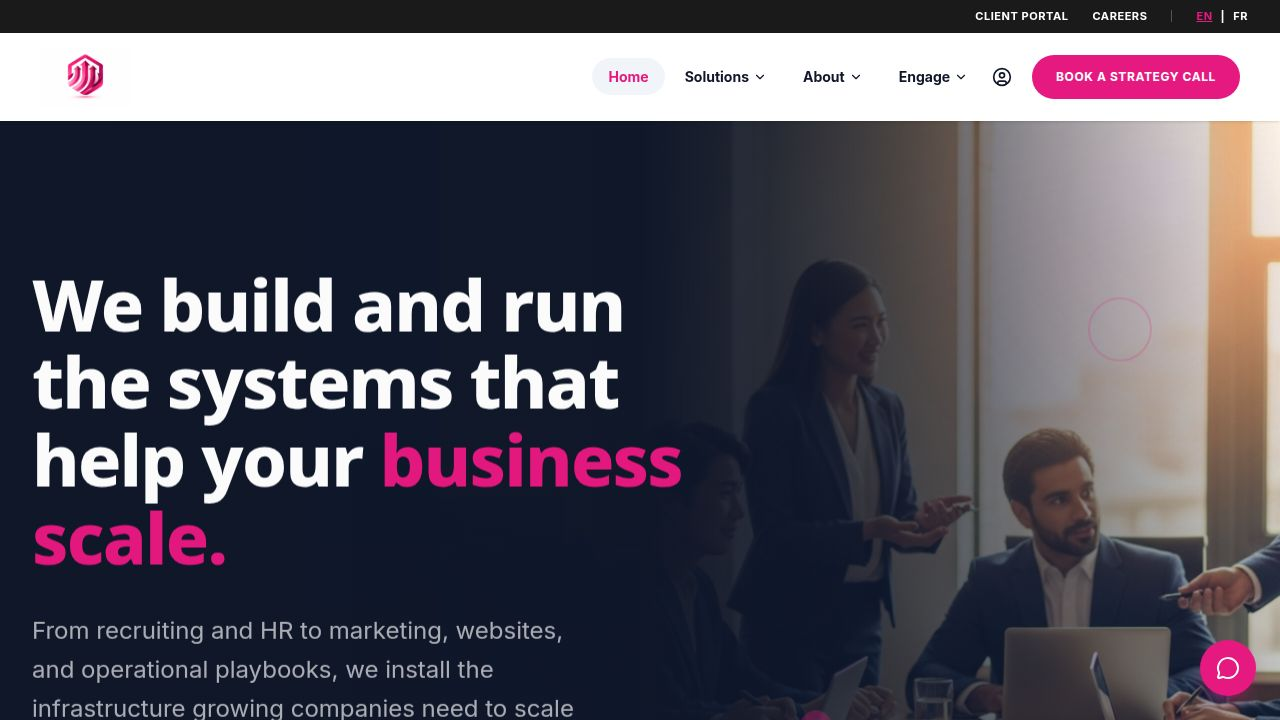
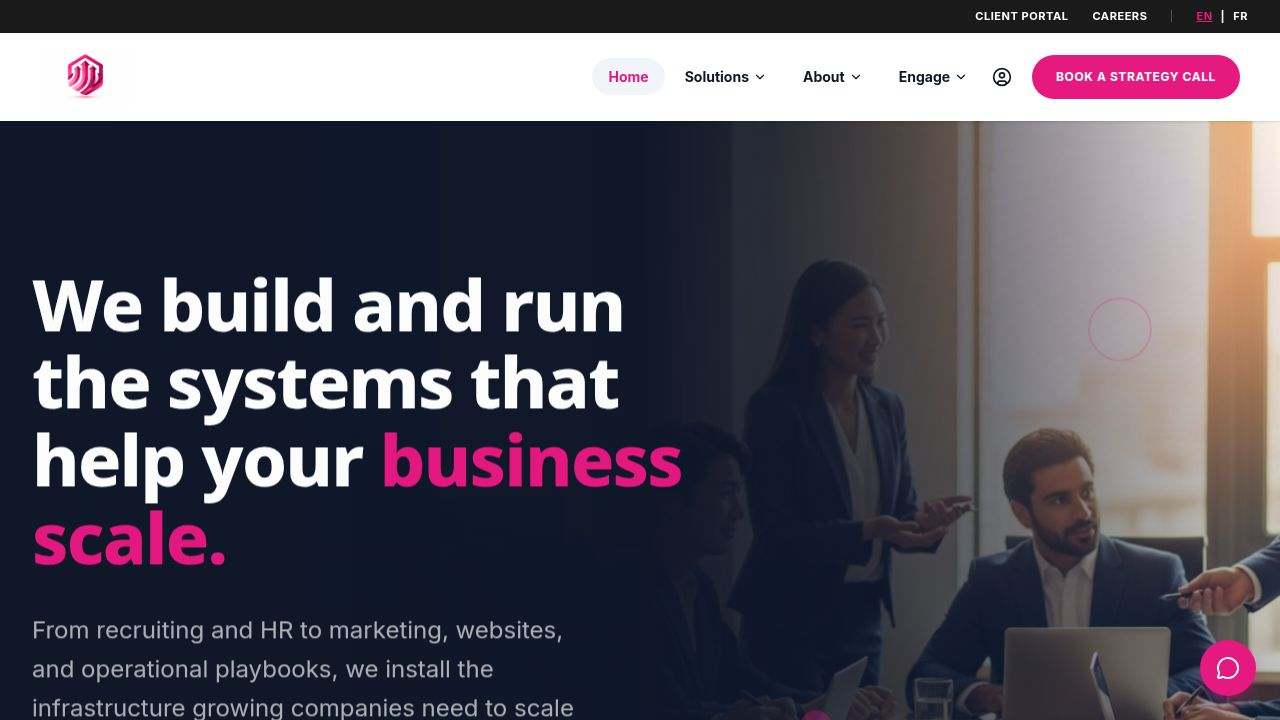
Update homepage hero section to use a background video
Replace static hero image with an autoplaying, muted, looping background video, including a static poster fallback and a dark overlay for text readability.

Replit-Commit-Author: Agent
Replit-Commit-Session-Id: dc6e2401-6f3b-40a9-93a2-bd8ee1fb60e2
Replit-Commit-Checkpoint-Type: full_checkpoint
Replit-Commit-Event-Id: 49d136b0-fe17-4980-abca-4205ec5a2fb0
Replit-Commit-Screenshot-Url: https://storage.googleapis.com/screenshot-production-us-central1/69669f3e-81d6-466f-8028-be37d6c6f5c1/dc6e2401-6f3b-40a9-93a2-bd8ee1fb60e2/LPJHgmM
Replit-Helium-Checkpoint-Created: true

diff --git a/client/src/pages/Home.tsx b/client/src/pages/Home.tsx
@@ -146,18 +146,19 @@ export default function Home() {
 
         <section className="relative min-h-[700px] lg:min-h-[800px] flex items-center overflow-hidden bg-primary" data-testid="section-hero">
           <div className="absolute inset-0 z-0">
-            <img src={communityNetworkImg} alt="" className="w-full h-full object-cover opacity-20 animate-ken-burns" />
-            <div className="absolute inset-0 bg-gradient-to-r from-primary via-primary/98 to-primary/70" />
+            <video
+              autoPlay
+              muted
+              loop
+              playsInline
+              className="w-full h-full object-cover"
+              poster={communityNetworkImg}
+            >
+              <source src="/assets/videos/hero-bg.mp4" type="video/mp4" />
+            </video>
+            <div className="absolute inset-0 bg-primary/75" />
+            <div className="absolute inset-0 bg-gradient-to-r from-primary via-primary/80 to-primary/50" />
           </div>
-          <div className="absolute bottom-0 right-0 w-1/2 h-full hidden lg:block z-[1]">
-            <img src={communityCollaborationImg} alt="" className="w-full h-full object-cover animate-ken-burns" />
-            <div className="absolute inset-0 bg-gradient-to-r from-primary via-primary/60 to-transparent" />
-            <div className="absolute inset-0 bg-gradient-to-t from-primary/40 to-transparent" />
-          </div>
-          <GradientOrb className="w-96 h-96 bg-accent/10 -top-20 -right-20 z-[2]" />
-          <FloatingShape className="w-16 h-16 top-[20%] right-[10%] z-[3]" variant="ring" />
-          <FloatingShape className="w-8 h-8 bottom-[30%] right-[35%] z-[3]" variant="dot" />
-          <GeometricAccent className="bottom-[15%] right-[5%] text-white z-[2]" />
           <div className="container mx-auto px-4 md:px-8 py-24 lg:py-36 relative z-10">
             <div className="max-w-2xl lg:max-w-[55%]">
               <h1 className="text-4xl md:text-5xl lg:text-6xl xl:text-7xl font-heading font-extrabold text-white mb-8 leading-[1.08] animate-fade-in-up" style={{ animationDelay: "0.2s" }} data-testid="text-hero-title">
